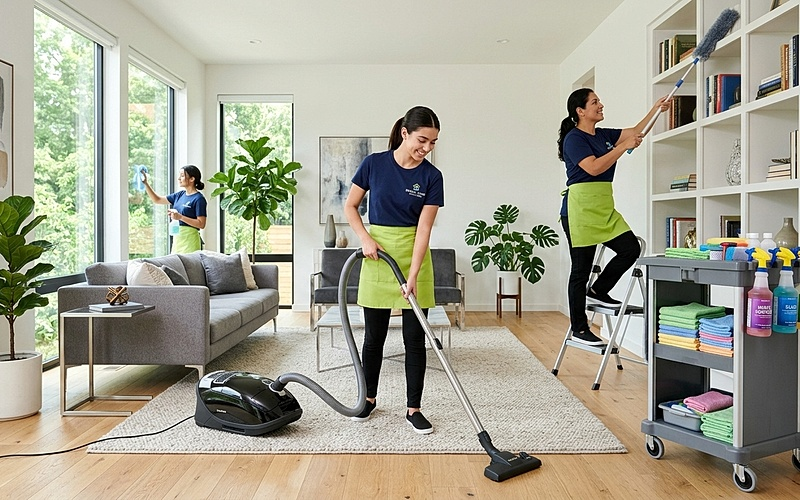
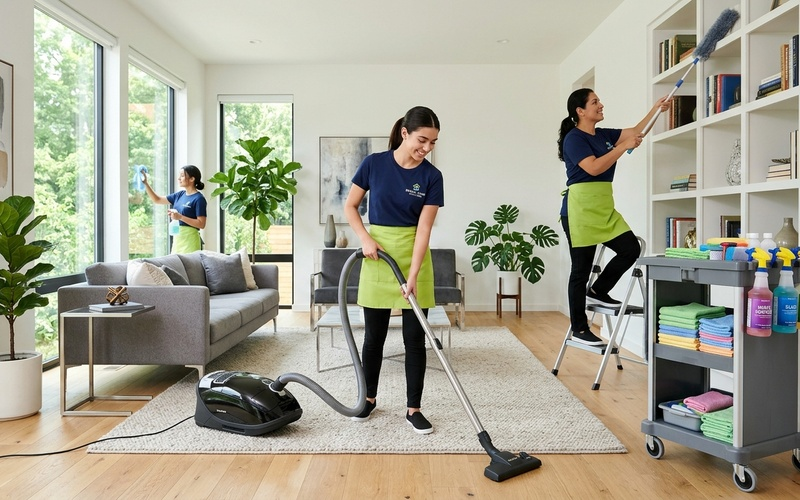
refactor: rebrand project from ProCleaning to SparkClean and add site components

diff --git a/src/consts.ts b/src/consts.ts
@@ -1,7 +1,7 @@
 // Place any global data in this file.
 // You can import this data from anywhere in your site by using the `import` keyword.
 
-export const SITE_TITLE = 'ProCleaning';
+export const SITE_TITLE = 'SparkClean';
 export const SITE_DESCRIPTION = 'Specialized, efficient, and thorough cleaning services';
 
 

diff --git a/README.md b/README.md
@@ -1,8 +1,8 @@
 > ⭐ Love this theme? Star it to support our work!
 
-# ProCleaning: Cleaning services website landing page
+# SparkClean: Cleaning services website landing page
 
-A modern, responsive landing page template for cleaning service businesses. Built with Astro and Tailwind CSS, ProCleaning helps cleaning companies showcase their services, team, testimonials, and contact information with a fast, professional, and conversion-focused design.
+A modern, responsive landing page for cleaning service businesses. Built with Astro and Tailwind CSS, SparkClean helps showcase services, team, testimonials, and contact information with a fast, professional, and conversion-focused design.
 
 > ⚡ Built with Astro 6, Tailwind CSS 4 & DaisyUI, and Markdown — optimized for performance, SEO, and simplicity.
 
